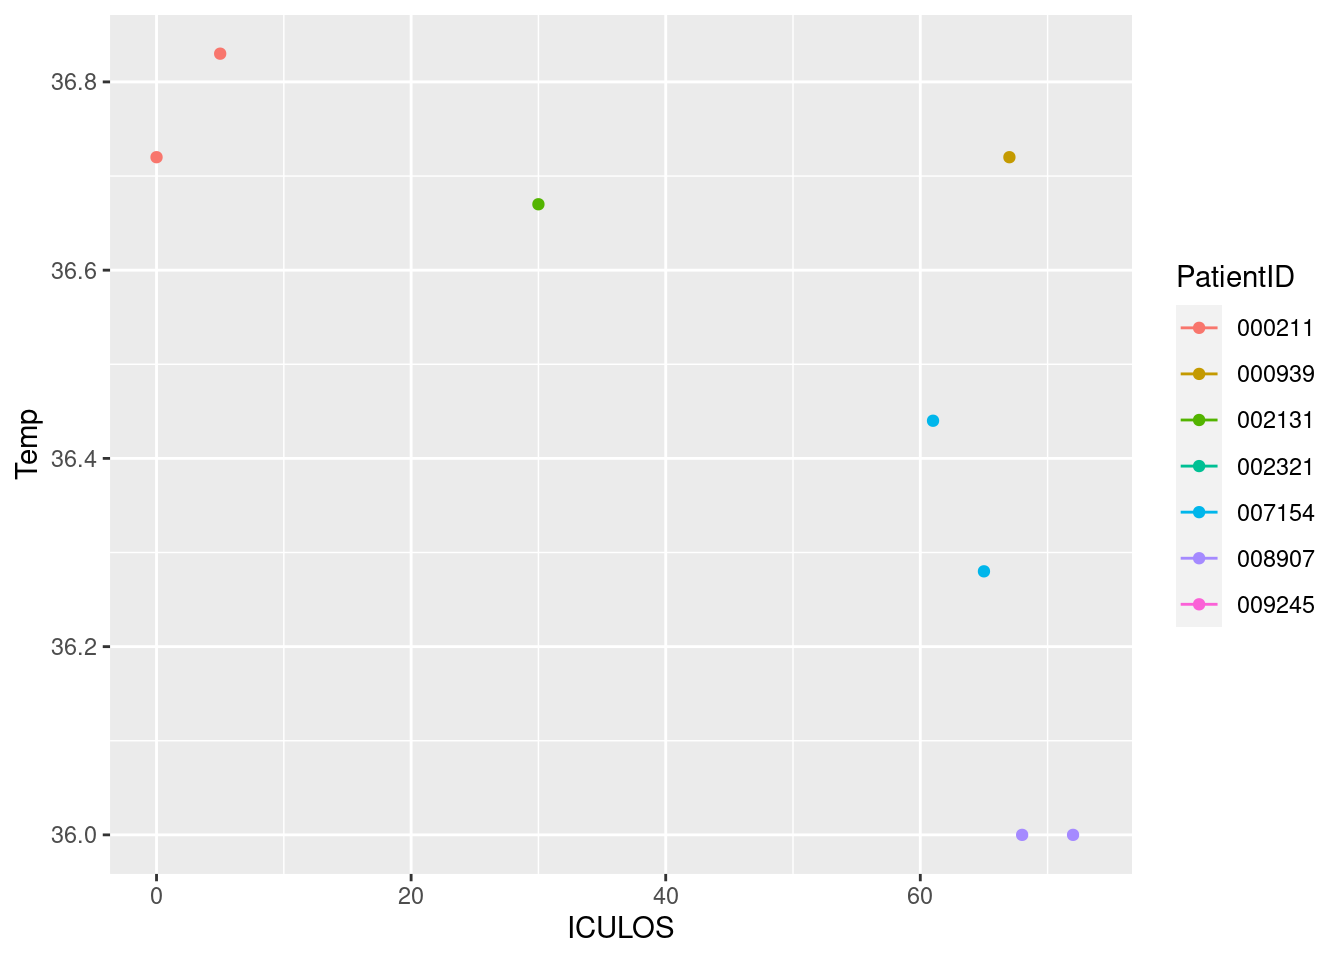
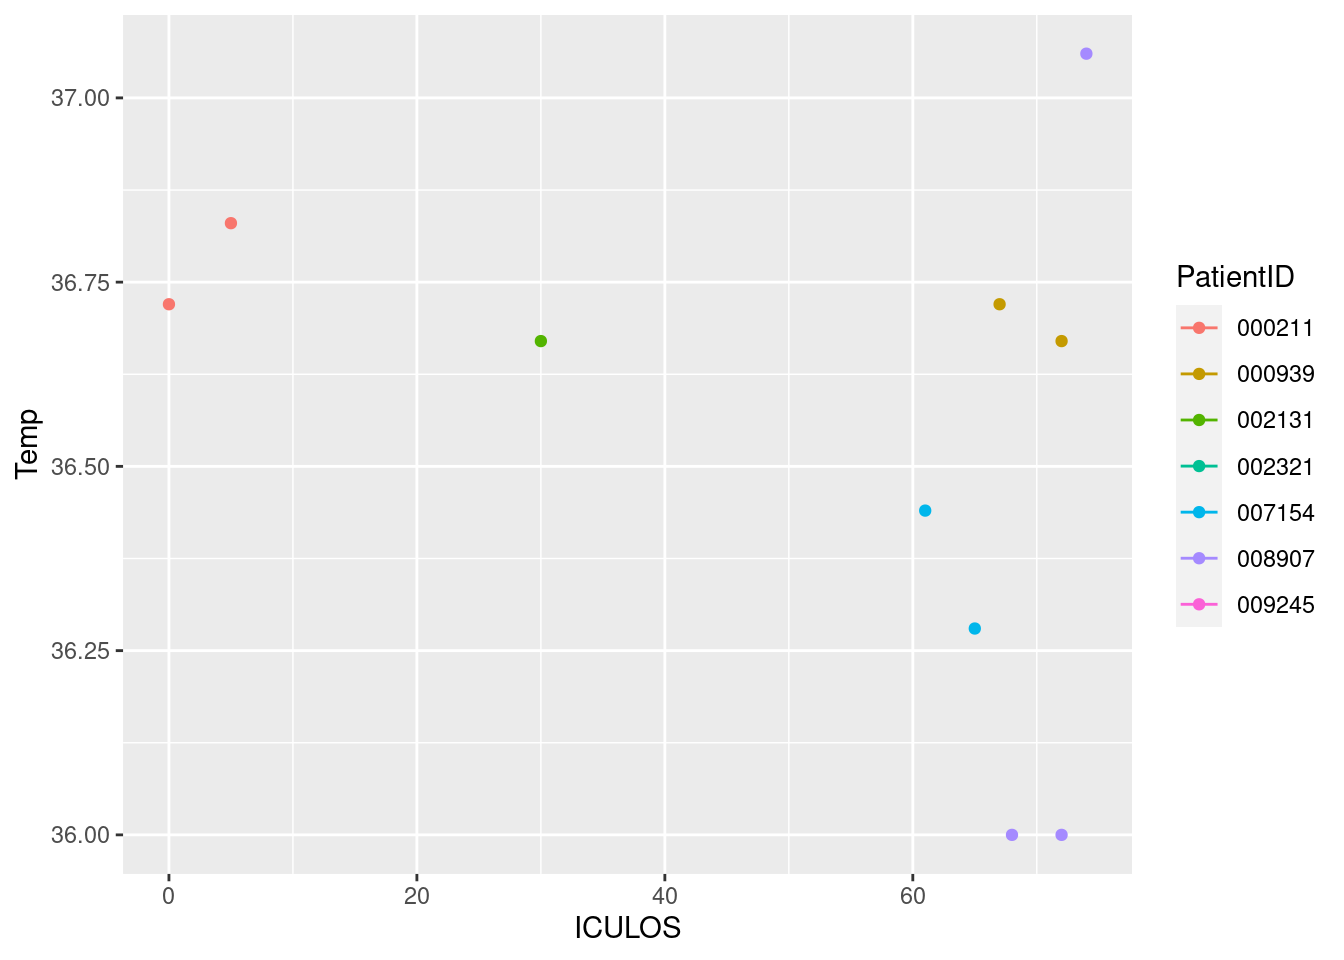
Updated report

diff --git a/a7qmd.html b/a7qmd.html
@@ -80,7 +80,7 @@ ul.task-list li input[type="checkbox"] {
 <h2 class="anchored" data-anchor-id="current-date-and-time">Current date and time</h2>
 <div class="cell">
 <div class="cell-output cell-output-stdout">
-<pre><code>[1] "2023-04-12 17:14:36 UTC"</code></pre>
+<pre><code>[1] "2023-04-12 18:19:43 UTC"</code></pre>
 </div>
 </div>
 </section>
@@ -106,9 +106,9 @@ ul.task-list li input[type="checkbox"] {
 </tr>
 <tr class="even">
 <td style="text-align: left;">000939</td>
-<td style="text-align: right;">NA</td>
-<td style="text-align: right;">NA</td>
-<td style="text-align: right;">NA</td>
+<td style="text-align: right;">84</td>
+<td style="text-align: right;">36.67</td>
+<td style="text-align: right;">13</td>
 </tr>
 <tr class="odd">
 <td style="text-align: left;">002131</td>
@@ -130,9 +130,9 @@ ul.task-list li input[type="checkbox"] {
 </tr>
 <tr class="even">
 <td style="text-align: left;">008907</td>
-<td style="text-align: right;">76</td>
-<td style="text-align: right;">NA</td>
-<td style="text-align: right;">19</td>
+<td style="text-align: right;">78</td>
+<td style="text-align: right;">37.06</td>
+<td style="text-align: right;">17</td>
 </tr>
 <tr class="odd">
 <td style="text-align: left;">009245</td>
@@ -217,9 +217,9 @@ ul.task-list li input[type="checkbox"] {
 </tr>
 <tr class="even">
 <td style="text-align: left;">000939</td>
+<td style="text-align: right;">-4</td>
 <td style="text-align: right;">NA</td>
-<td style="text-align: right;">NA</td>
-<td style="text-align: right;">NA</td>
+<td style="text-align: right;">-3</td>
 </tr>
 <tr class="odd">
 <td style="text-align: left;">001080</td>
@@ -427,9 +427,9 @@ ul.task-list li input[type="checkbox"] {
 </tr>
 <tr class="odd">
 <td style="text-align: left;">008907</td>
-<td style="text-align: right;">1</td>
+<td style="text-align: right;">2</td>
 <td style="text-align: right;">NA</td>
-<td style="text-align: right;">1</td>
+<td style="text-align: right;">-2</td>
 </tr>
 <tr class="even">
 <td style="text-align: left;">008916</td>
